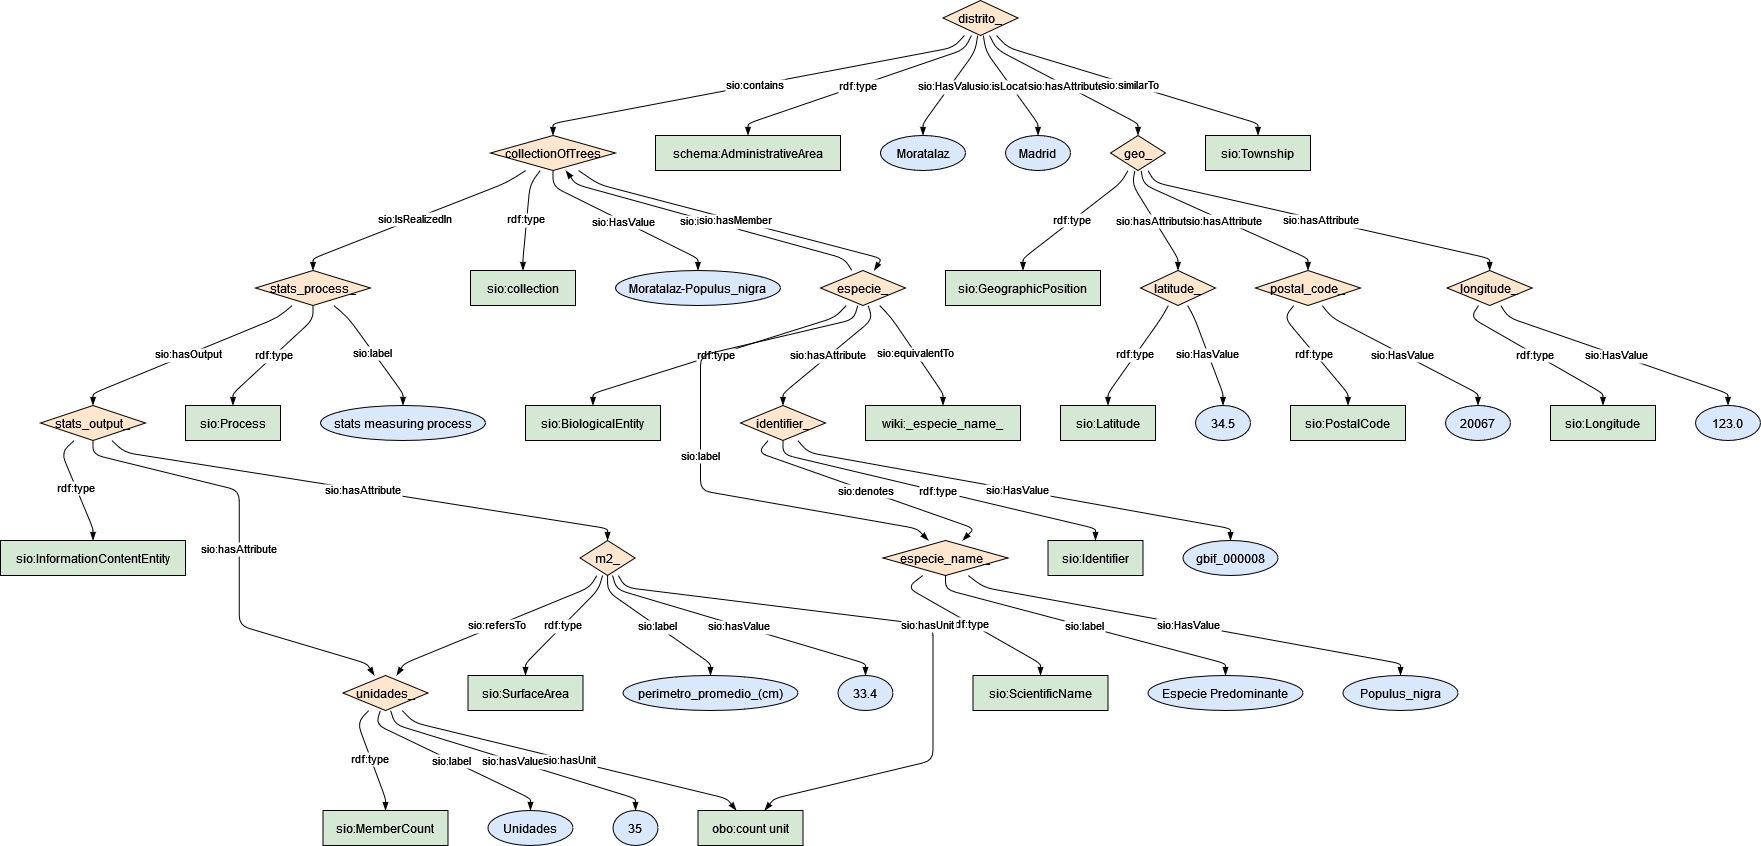
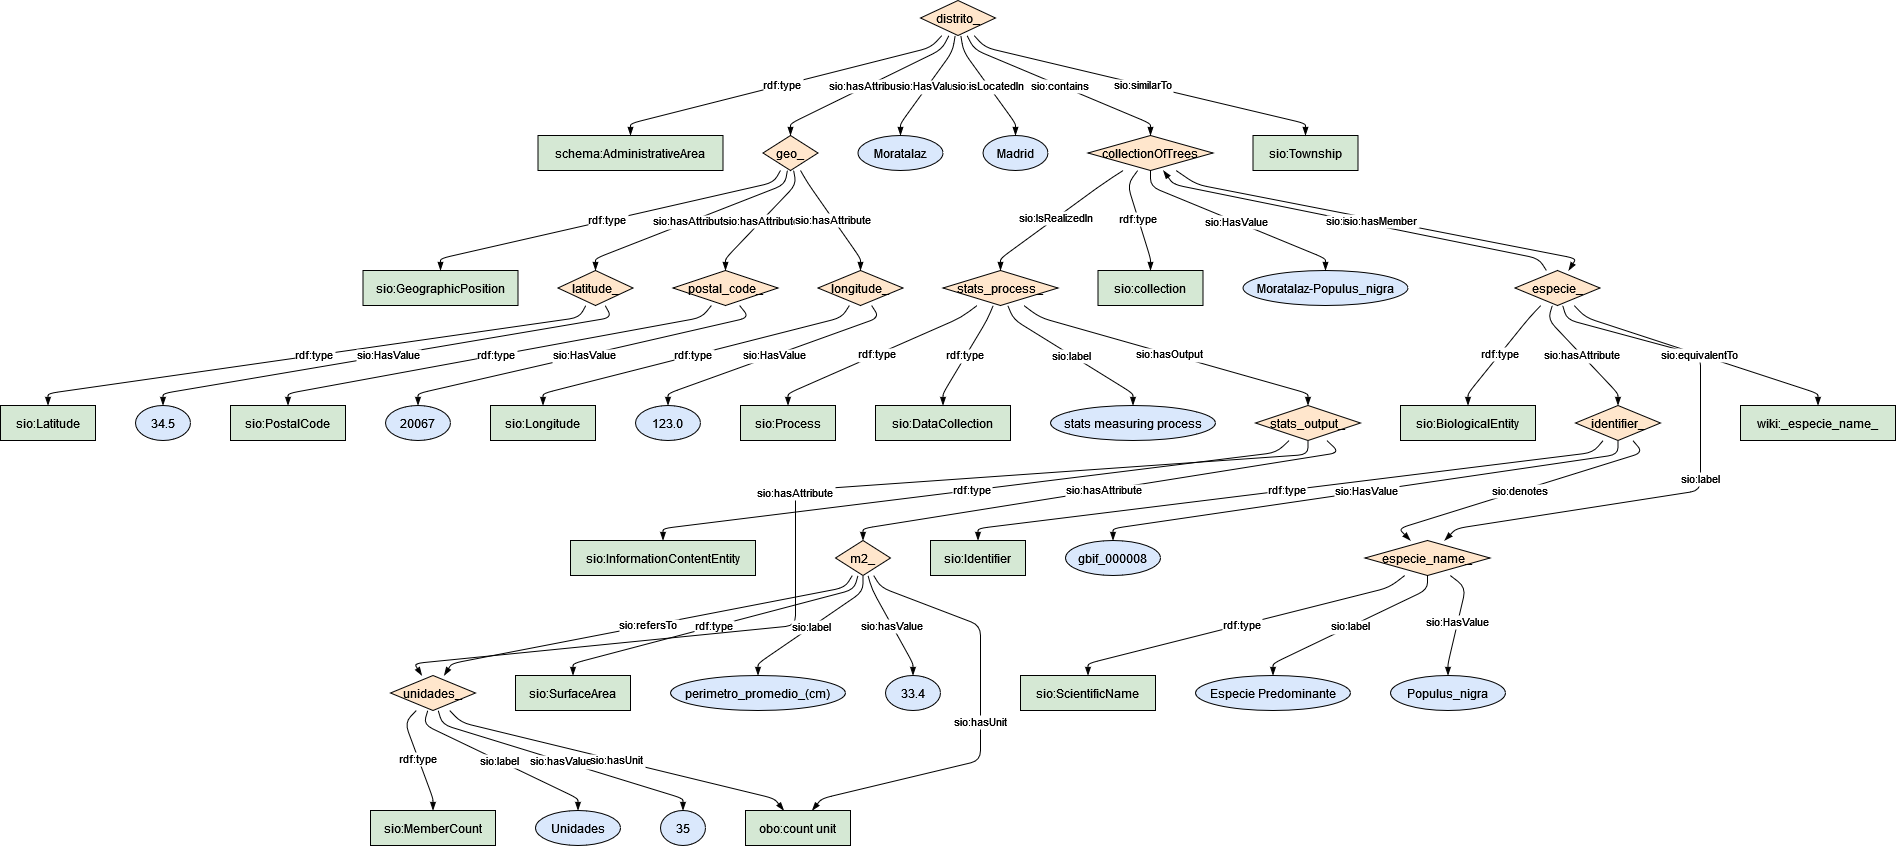
fixed typo

diff --git a/notebooks/1-ArboladoParquesHistoricosSingularesForestales.md b/notebooks/1-ArboladoParquesHistoricosSingularesForestales.md
@@ -1,6 +1,6 @@
 ### Semantic model figure
 
-This module describes the data elements related to [tree inventory dataset](https://github.com/carlosug/opengov-kg/blob/main/etl/data/inputs/preprocessing/ArboladoParquesHistoricoSingularesForestales_2019.csv). It covers the ESGREEN level of Arbolado Parques Historicos Singulares Forestales. The data specification can e found on the Open Data Madrid Platform at this [link](https://datos.madrid.es/FWProjects/egob/Catalogo/MedioAmbiente/ZonasVerdes/Ficheros/Informaci%C3%B3n%20de%20estado%20del%20arbolado%20en%20parques%20hist%C3%B3ricos%20singulares%20y%20forestales%20en%202019.pdf).
+This module describes the data elements related to [tree inventory dataset](https://github.com/carlosug/opengov-kg/blob/main/etl/data/inputs/preprocessing/ArboladoParquesHistoricoSingularesForestales_2019.csv). It covers the ESGREEN level of Arbolado Parques Historicos Singulares Forestales. The data specification can be found on the Open Data Madrid Platform at this [link](https://datos.madrid.es/FWProjects/egob/Catalogo/MedioAmbiente/ZonasVerdes/Ficheros/Informaci%C3%B3n%20de%20estado%20del%20arbolado%20en%20parques%20hist%C3%B3ricos%20singulares%20y%20forestales%20en%202019.pdf).
 
 
 <p align="center">

diff --git a/notebooks/2-ArboladoZonasVerdesDistritosCalles.md b/notebooks/2-ArboladoZonasVerdesDistritosCalles.md
@@ -1,6 +1,6 @@
 ### Semantic model figure
 
-This module describes the data elements related to [tree inventory dataset](https://github.com/carlosug/opengov-kg/blob/main/etl/data/inputs/preprocessing). It covers the ESGREEN level of Arbolado Zonas Verdes Distritos y Calles. The data specification can e found on the Open Data Madrid Platform at this [link](https://datos.madrid.es/portal/site/egob/menuitem.c05c1f754a33a9fbe4b2e4b284f1a5a0/?vgnextoid=0101507f09436610VgnVCM2000001f4a900aRCRD&vgnextchannel=374512b9ace9f310VgnVCM100000171f5a0aRCRD&vgnextfmt=default).
+This module describes the data elements related to [tree inventory dataset](https://github.com/carlosug/opengov-kg/blob/main/etl/data/inputs/preprocessing). It covers the ESGREEN level of Arbolado Zonas Verdes Distritos y Calles. The data specification can be found on the Open Data Madrid Platform at this [link](https://datos.madrid.es/portal/site/egob/menuitem.c05c1f754a33a9fbe4b2e4b284f1a5a0/?vgnextoid=0101507f09436610VgnVCM2000001f4a900aRCRD&vgnextchannel=374512b9ace9f310VgnVCM100000171f5a0aRCRD&vgnextfmt=default).
 
 <p align="center">
     <a href="../images/arbolado_2.png" target="_blank">

diff --git a/notebooks/3-EstadoParquesHistoricoSingularesForestales.md b/notebooks/3-EstadoParquesHistoricoSingularesForestales.md
@@ -1,6 +1,6 @@
 ### Semantic model figure
 
-This module describes the data elements related to [tree inventory dataset](https://github.com/carlosug/opengov-kg/blob/main/etl/data/inputs/preprocessing). It covers the ESGREEN level of Estado Parques Historico Singulares Forestales. The data specification can e found on the Open Data Madrid Platform at this [link](https://datos.madrid.es/FWProjects/egob/Catalogo/MedioAmbiente/ZonasVerdes/Ficheros/Informaci%C3%B3n%20de%20estado%20del%20arbolado%20en%20parques%20hist%C3%B3ricos%20singulares%20y%20forestales%20en%202019.pdf).
+This module describes the data elements related to [tree inventory dataset](https://github.com/carlosug/opengov-kg/blob/main/etl/data/inputs/preprocessing). It covers the ESGREEN level of Estado Parques Historico Singulares Forestales. The data specification can be found on the Open Data Madrid Platform at this [link](https://datos.madrid.es/FWProjects/egob/Catalogo/MedioAmbiente/ZonasVerdes/Ficheros/Informaci%C3%B3n%20de%20estado%20del%20arbolado%20en%20parques%20hist%C3%B3ricos%20singulares%20y%20forestales%20en%202019.pdf).
 
 
 <p align="center">

diff --git a/notebooks/4-EstadoZonasVerdesDistritosCalles.md b/notebooks/4-EstadoZonasVerdesDistritosCalles.md
@@ -1,6 +1,6 @@
 ### Semantic model figure
 
-This module describes the data elements related to [tree inventory dataset](https://github.com/carlosug/opengov-kg/blob/main/etl/data/inputs/preprocessing). It covers the ESGREEN level of Estado Zonas Verdes Distritos y Calles. The data specification can e found on the Open Data Madrid Platform at this [link](https://datos.madrid.es/FWProjects/egob/Catalogo/MedioAmbiente/ZonasVerdes/Ficheros/Informaci%C3%B3n%20de%20estado%20del%20arbolado%20en%20parques%20hist%C3%B3ricos%20singulares%20y%20forestales%20en%202019.pdf).
+This module describes the data elements related to [tree inventory dataset](https://github.com/carlosug/opengov-kg/blob/main/etl/data/inputs/preprocessing). It covers the ESGREEN level of Estado Zonas Verdes Distritos y Calles. The data specification can be found on the Open Data Madrid Platform at this [link](https://datos.madrid.es/FWProjects/egob/Catalogo/MedioAmbiente/ZonasVerdes/Ficheros/Informaci%C3%B3n%20de%20estado%20del%20arbolado%20en%20parques%20hist%C3%B3ricos%20singulares%20y%20forestales%20en%202019.pdf).
 
 
 <p align="center">

diff --git a/notebooks/6-MasasZonasVerdesDistritosCalles.md b/notebooks/6-MasasZonasVerdesDistritosCalles.md
@@ -1,6 +1,6 @@
 ### Semantic model figure
 
-This module describes the data elements related to tree inventory dataset.
+This module describes the data elements related to [tree inventory dataset](https://github.com/carlosug/opengov-kg/blob/main/etl/data/inputs/preprocessing). It covers the ESGREEN level of Masas Zonas Verdes Distritos y Calles. The data specification can be found on the Open Data Madrid Platform at this [link](https://datos.madrid.es/FWProjects/egob/Catalogo/MedioAmbiente/ZonasVerdes/ficheros/Estructura_DS_Masas.pdf).
 
 <p align="center">
     <a href="../images/arbolado_6.png" target="_blank">
@@ -68,7 +68,7 @@ This module describes the data elements related to tree inventory dataset.
     sio:HasValue "Populus_nigra"^^xsd:string .
 
 
-:stats_process_ a sio:Process ;
+:stats_process_ a sio:Process, sio:DataCollection ;
     sio:label "stats measuring process"^^xsd:string ;
     sio:hasOutput :stats_output_ .
 

diff --git a/notebooks/5-MasasParquesHistoricoSingularesForestales.md b/notebooks/5-MasasParquesHistoricoSingularesForestales.md
@@ -1,6 +1,6 @@
 ### Semantic model figure
 
-This module describes the data elements related to [tree inventory dataset](https://github.com/carlosug/opengov-kg/blob/main/etl/data/inputs/preprocessing). It covers the ESGREEN level of Masas Parques Historico Singulares Forestales. The data specification can e found on the Open Data Madrid Platform at this [link](https://datos.madrid.es/FWProjects/egob/Catalogo/MedioAmbiente/ZonasVerdes/ficheros/Estructura_DS_Masas.pdf).
+This module describes the data elements related to [tree inventory dataset](https://github.com/carlosug/opengov-kg/blob/main/etl/data/inputs/preprocessing). It covers the ESGREEN level of Masas Parques Historico Singulares Forestales. The data specification can be found on the Open Data Madrid Platform at this [link](https://datos.madrid.es/FWProjects/egob/Catalogo/MedioAmbiente/ZonasVerdes/ficheros/Estructura_DS_Masas.pdf).
 
 
 <p align="center">
